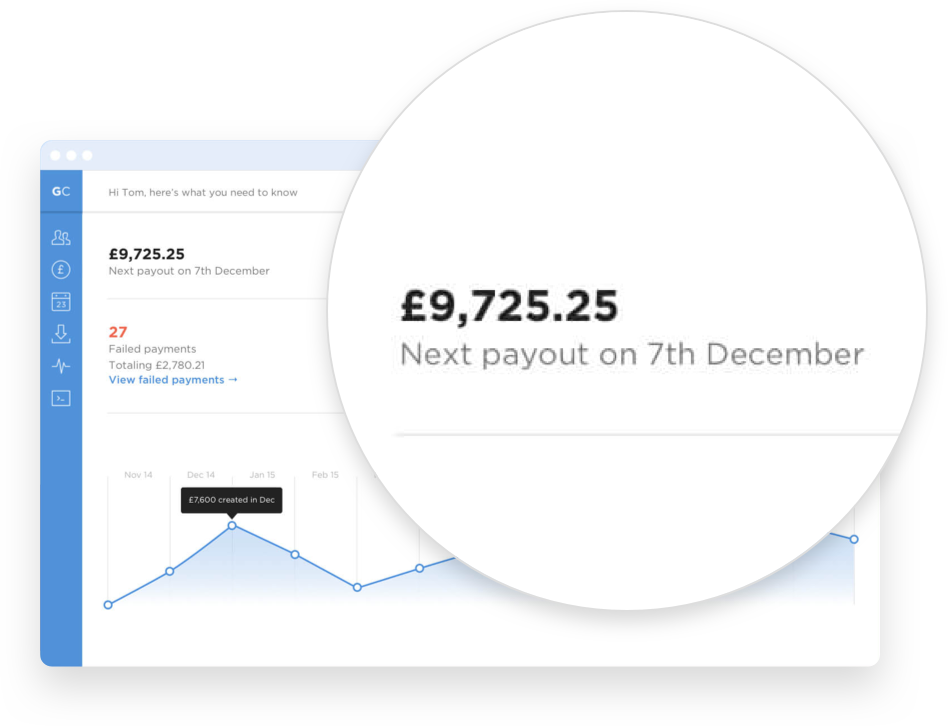
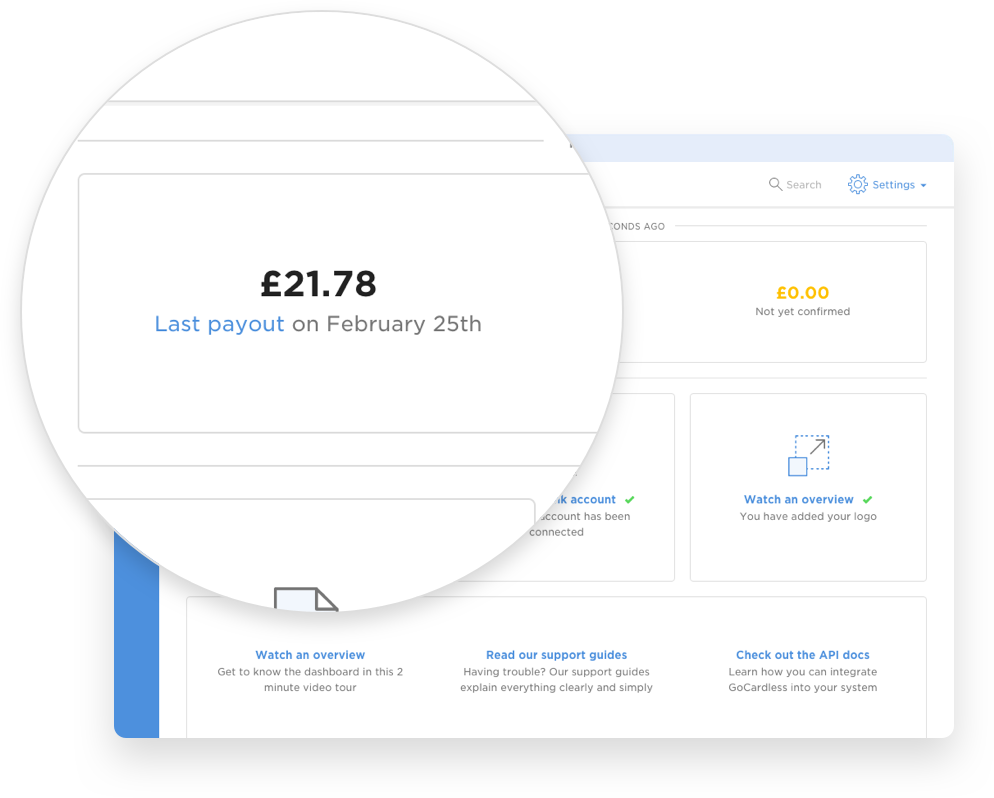
Update screenshots on features page

diff --git a/app/pages/features/features.en.js b/app/pages/features/features.en.js
@@ -239,7 +239,7 @@ export default class FeaturesEn extends React.Component {
                   </p>
                 </div>
                 <div className='grid__cell u-size-1of2 u-text-center'>
-                  <img src='/images/features/pro-dashboard-overview.png' />
+                  <img src='/images/features/pro-dashboard-payment-plans.png' />
                 </div>
               </div>
             </div>
